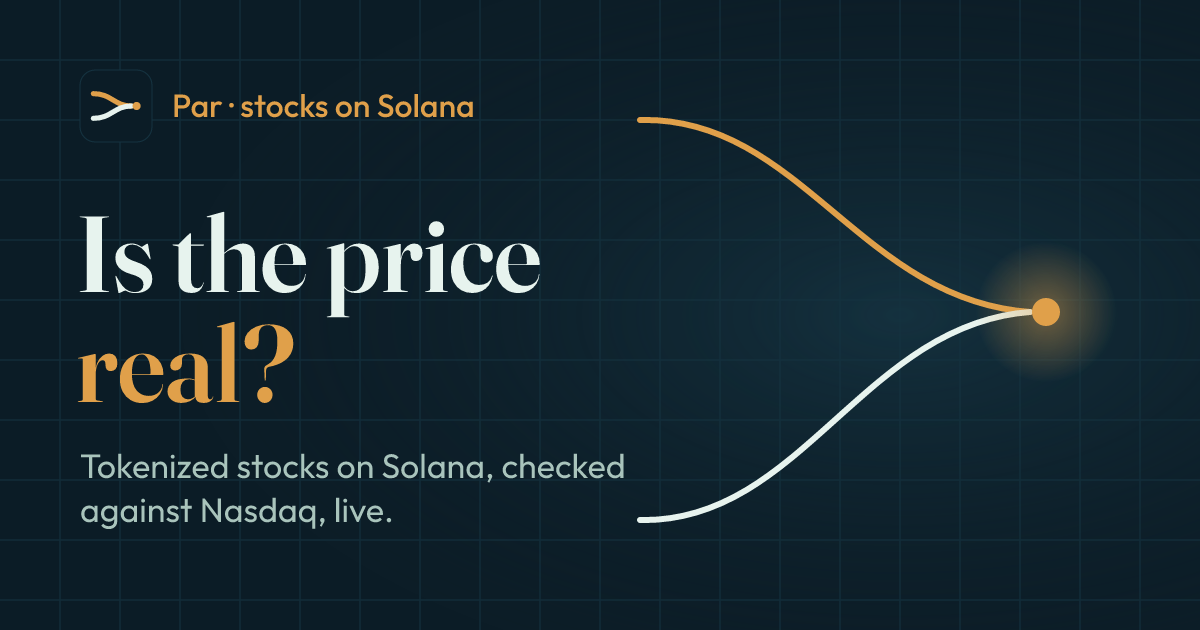
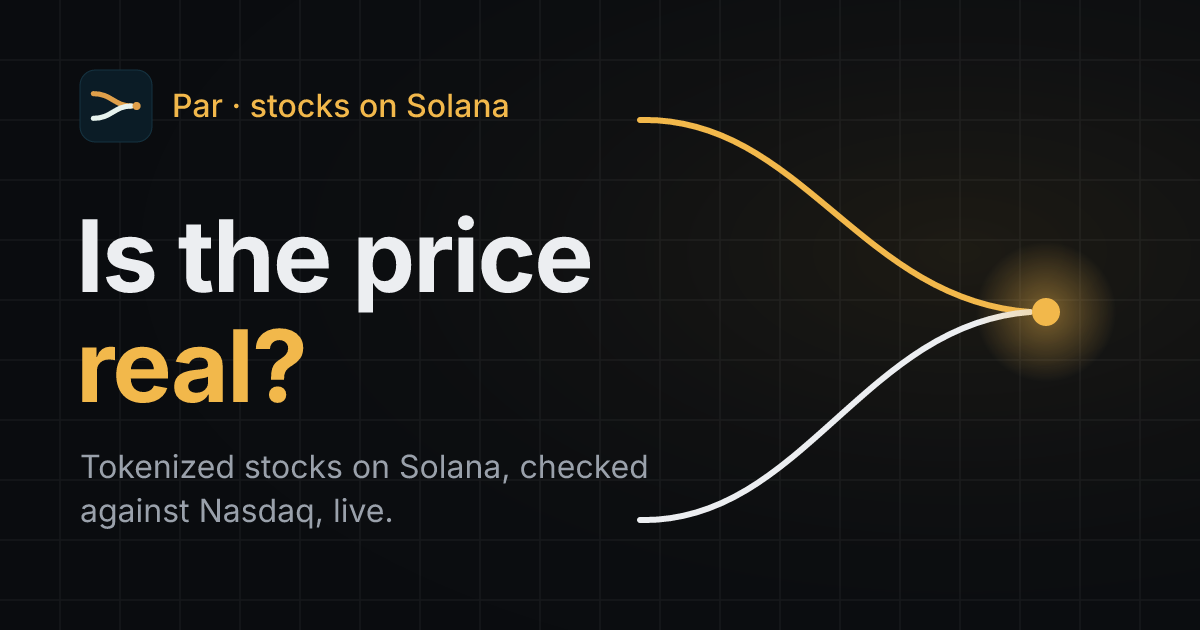
No Fair on an old Nasdaq print; link previews in the dark look
- Bot: while Nasdaq is open, a print read more than 7 minutes ago gives
  "Checking" instead of a verdict, so no Fair ping and no size alert rest on it
  (a failed read used to keep the last print for up to 30 minutes).
- Site: og.png, og/bot.png and the 25 name previews redrawn near-black with
  Inter, the same as the site since 8 Nov; the Par mark is unchanged.

Tests: bot 92, site 136.

diff --git a/src/services/hardening.test.ts b/src/services/hardening.test.ts
@@ -290,3 +290,31 @@ test("the /portfolio reply no longer says pasted wallets get the holder texts", 
   assert.match(text, /prove your wallet with \/hold/);
   assert.doesNotMatch(text, /Pings use this wallet/);
 });
+
+test("while Nasdaq is open, a verdict never rests on a print older than seven minutes", async () => {
+  const verdict = await import("./verdict.js");
+  const now = 10_000_000;
+  const row = {
+    symbol: "NVDAx",
+    underlying: "NVDA",
+    usdPrice: 186.7,
+    stockPrice: 186.64,
+    marketState: "Open",
+    buyPrice: 186.75,
+    buyImpactPct: 0.02,
+    buyAt: now - 10_000,
+    issuerPrice: 186.7,
+    issuerAt: now - 30_000,
+  };
+  const fresh = verdict.tradeVerdict({ ...row, printAt: now - 3 * 60_000 }, now);
+  assert.equal(fresh.id, "fair", "a $1,000 buy 0.06% over a print read three minutes ago");
+  assert.equal(verdict.tradeVerdict(row, now).id, "fair", "a print with no read time is not judged (the site's rows)");
+  const stale = verdict.tradeVerdict({ ...row, printAt: now - verdict.PRINT_STALE_MS - 1 }, now);
+  assert.equal(stale.id, "checking");
+  assert.match(stale.line, /Nasdaq price has not updated/);
+  assert.equal(verdict.toSnap({ ...row, printAt: now - 20 * 60_000 }, now).verdictId, "checking", "so no Fair ping either");
+  // Closed: the last print is the one that counts, however old.
+  const closed = { ...row, marketState: "Closed", printAt: now - 10 * 3600_000 };
+  assert.equal(verdict.printStale(closed, now), false);
+  assert.notEqual(verdict.tradeVerdict(closed, now).id, "checking");
+});

diff --git a/src/services/verdict.ts b/src/services/verdict.ts
@@ -41,7 +41,21 @@ export type VerdictInput = {
   buyAt?: number | null;
   issuerPrice?: number | null;
   issuerAt?: number | null;
+  /** When the Nasdaq print was read (ms). Set by the bot's desk; absent means "not known" and is not judged. */
+  printAt?: number | null;
 };
+
+/**
+ * While Nasdaq is open, a print read longer ago than this is not trusted for a verdict (14 Nov 2026). Prints are read
+ * every 3 minutes; a failed read keeps the last good one for up to 30, and before this rule a Fair verdict, its ping
+ * and size alerts could rest on a price that old. Seven minutes is two missed reads.
+ */
+export const PRINT_STALE_MS = 7 * 60_000;
+
+/** True when the session is open and the print is known to be older than PRINT_STALE_MS. */
+export function printStale(row: Pick<VerdictInput, "marketState" | "printAt">, now = Date.now()) {
+  return isSessionOpen(row.marketState) && row.printAt != null && now - row.printAt > PRINT_STALE_MS;
+}
 
 export type DeskSnap = {
   symbol: string;
@@ -136,6 +150,13 @@ export function tradeVerdict(row: VerdictInput, now = Date.now()): Verdict {
       id: "checking",
       title: "Checking",
       line: "The US session is still loading, so this is not a buy signal yet.",
+    };
+  }
+  if (printStale(row, now)) {
+    return {
+      id: "checking",
+      title: "Checking",
+      line: "The Nasdaq price has not updated for a few minutes, so this is not a buy signal yet.",
     };
   }
   const open = isSessionOpen(row.marketState);

diff --git a/src/services/pings.ts b/src/services/pings.ts
@@ -84,6 +84,7 @@ import {
   buyUsable,
   isPreMarket,
   isSessionOpen,
+  printStale,
   sizeAlertHit,
   sizeWorthQuoting,
   rebaseDue,
@@ -270,7 +271,8 @@ async function sendSizeAlerts(bot: Telegraf, bySymbol: Map<string, DeskQuote>, h
     if (quoted >= SIZE_CHECKS_PER_RUN) break;
     if (!holderIds.has(alert.telegram_id) || now - alert.last_checked < SIZE_RECHECK_MS) continue;
     const quote = bySymbol.get(alert.symbol);
-    if (!quote || !isSessionOpen(quote.marketState)) continue;
+    // An alert never fires on an old Nasdaq print (verdict.ts PRINT_STALE_MS); it waits for a fresh one.
+    if (!quote || !isSessionOpen(quote.marketState) || printStale(quote, now)) continue;
     touchSizeAlert(alert.id, now);
     const buyGap = basisPct(buyUsable(quote.buyAt ?? null, now) ? (quote.buyPrice ?? null) : null, quote.stockPrice);
     if (!sizeWorthQuoting(buyGap)) continue;

diff --git a/src/services/desk.ts b/src/services/desk.ts
@@ -351,6 +351,8 @@ async function loadQuotes(): Promise<DeskQuote[]> {
       underlying: token.underlying ?? token.symbol,
       usdPrice,
       stockPrice: token.underlying ? (stocks[token.underlying]?.price ?? null) : null,
+      // When that print was read: a verdict does not rest on one older than PRINT_STALE_MS (verdict.ts).
+      printAt: token.underlying && stocks[token.underlying] ? (prints.get(token.underlying)?.at ?? null) : null,
       marketState: (token.underlying && stocks[token.underlying]?.state) || state,
       issuerPrice: Number.isFinite(issuerRaw) && issuerRaw > 0 ? issuerRaw : null,
       issuerAt: Number.isFinite(issuerAt) ? issuerAt : null,

diff --git a/site/README.md b/site/README.md
@@ -185,7 +185,8 @@ Two independent reviews four days before $PAR (the site, and the bot with its ba
 - **Proving a wallet failed in normal use.** Every holder reply made a new code and "I signed it" checked only the newest. Codes are reused for five minutes, each button carries its own code, an expired code answers with a fresh button, and `?start=hold` opens the proof message from the site.
 - **A failed holder read looked like "you hold too little".** The last good answer stands for 15 minutes, and the note says when the chain could not be read.
 - **Site:** a $PAR strip under the nav on every page (the official address once it exists), the phone table shows each name's price and verdict, the holder steps are spelled out ("What $PAR unlocks"), "texts" became "Telegram alerts", and the Where-to-buy gap is grey while Nasdaq is closed.
-- **Left for after launch** (found in the same reviews): Fair judged on a Nasdaq print up to 30 minutes old when Nasdaq's API fails mid-session; the bot in a group chat; a rate limit on the site's POST functions; link-preview images in the old colours; the length of /bot on phones.
+- **Before launch, also (14 Nov 2026, later):** while Nasdaq is open, the bot no longer calls anything Fair, pings, or fires a size alert on a Nasdaq print read more than 7 minutes ago (`PRINT_STALE_MS` in `src/services/verdict.ts`; it used to keep a failed symbol's last print for up to 30). The link-preview images (`og.png`, `og/bot.png`, `og/s/*.png`) are redrawn in the dark look with Inter; the mark is unchanged. Chat apps keep an old preview for a while (Telegram: @WebpageBot refreshes it).
+- **Left for after launch** (found in the same reviews): the bot in a group chat; a rate limit on the site's POST functions; the length of /bot on phones; the "$X reaches 1% impact" line jumping between loads.
 
 ## Run it
 
